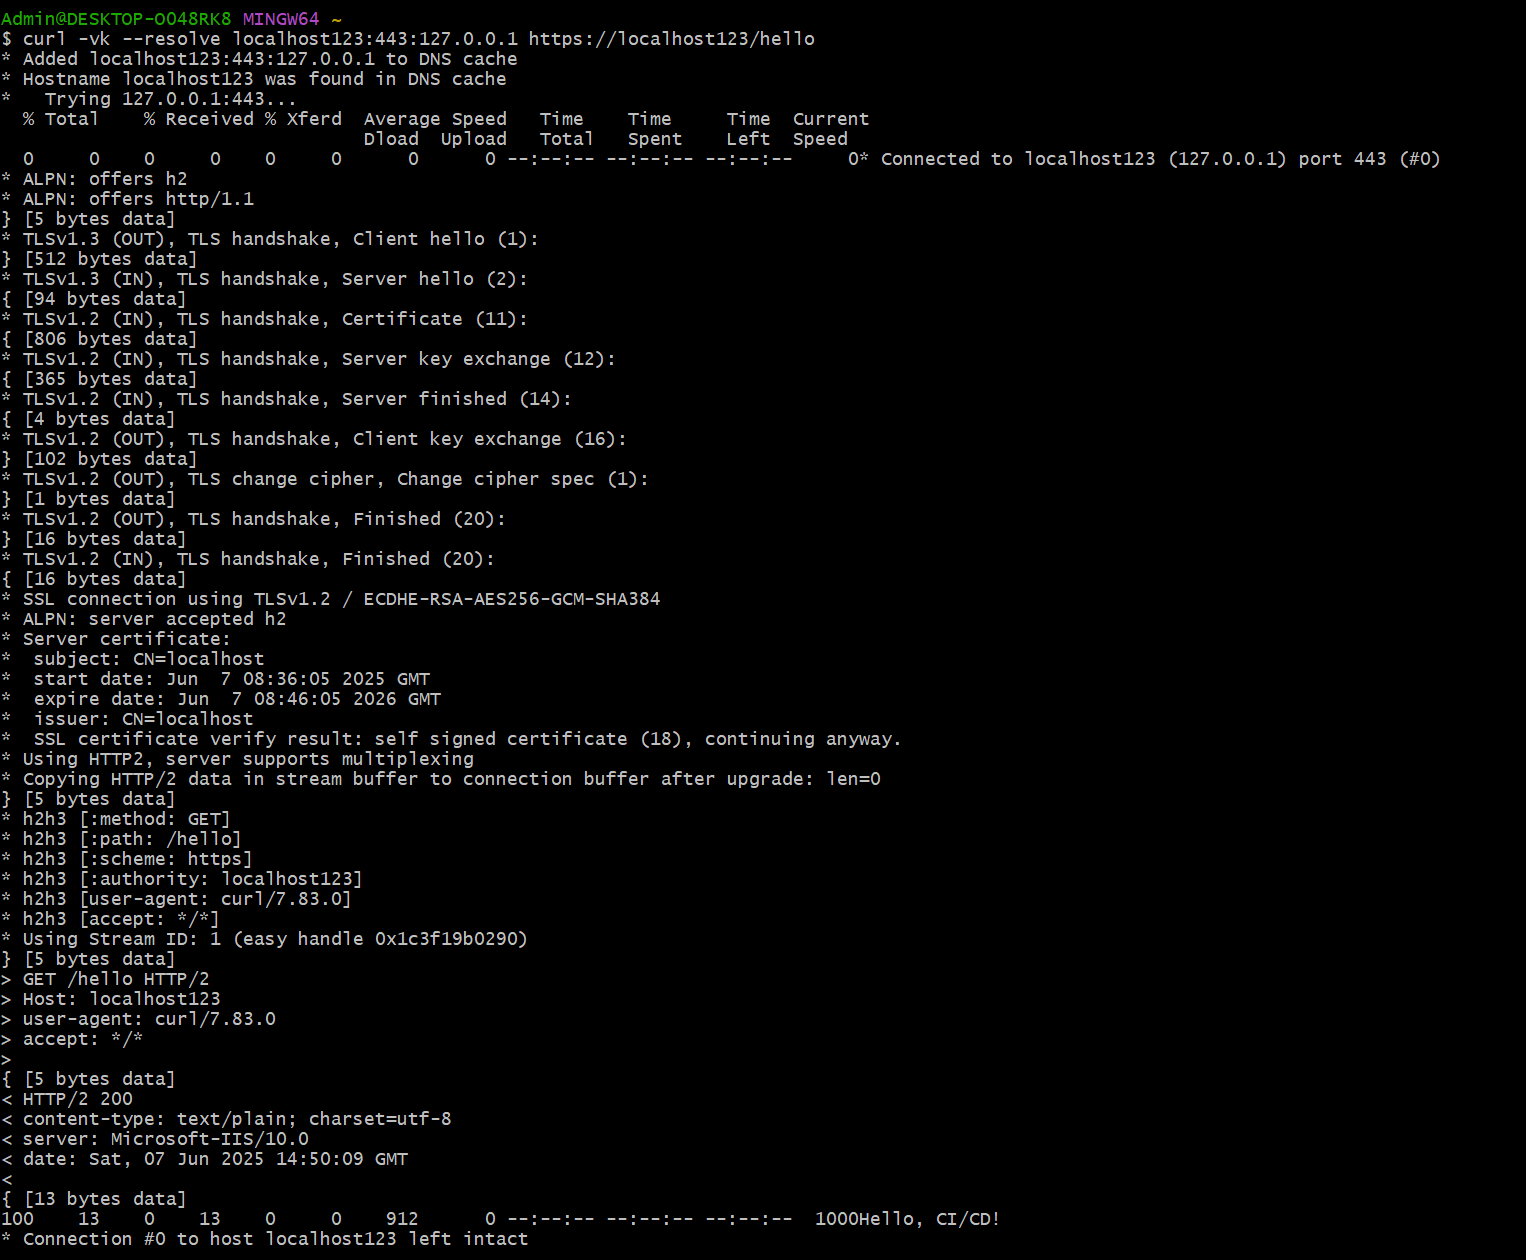
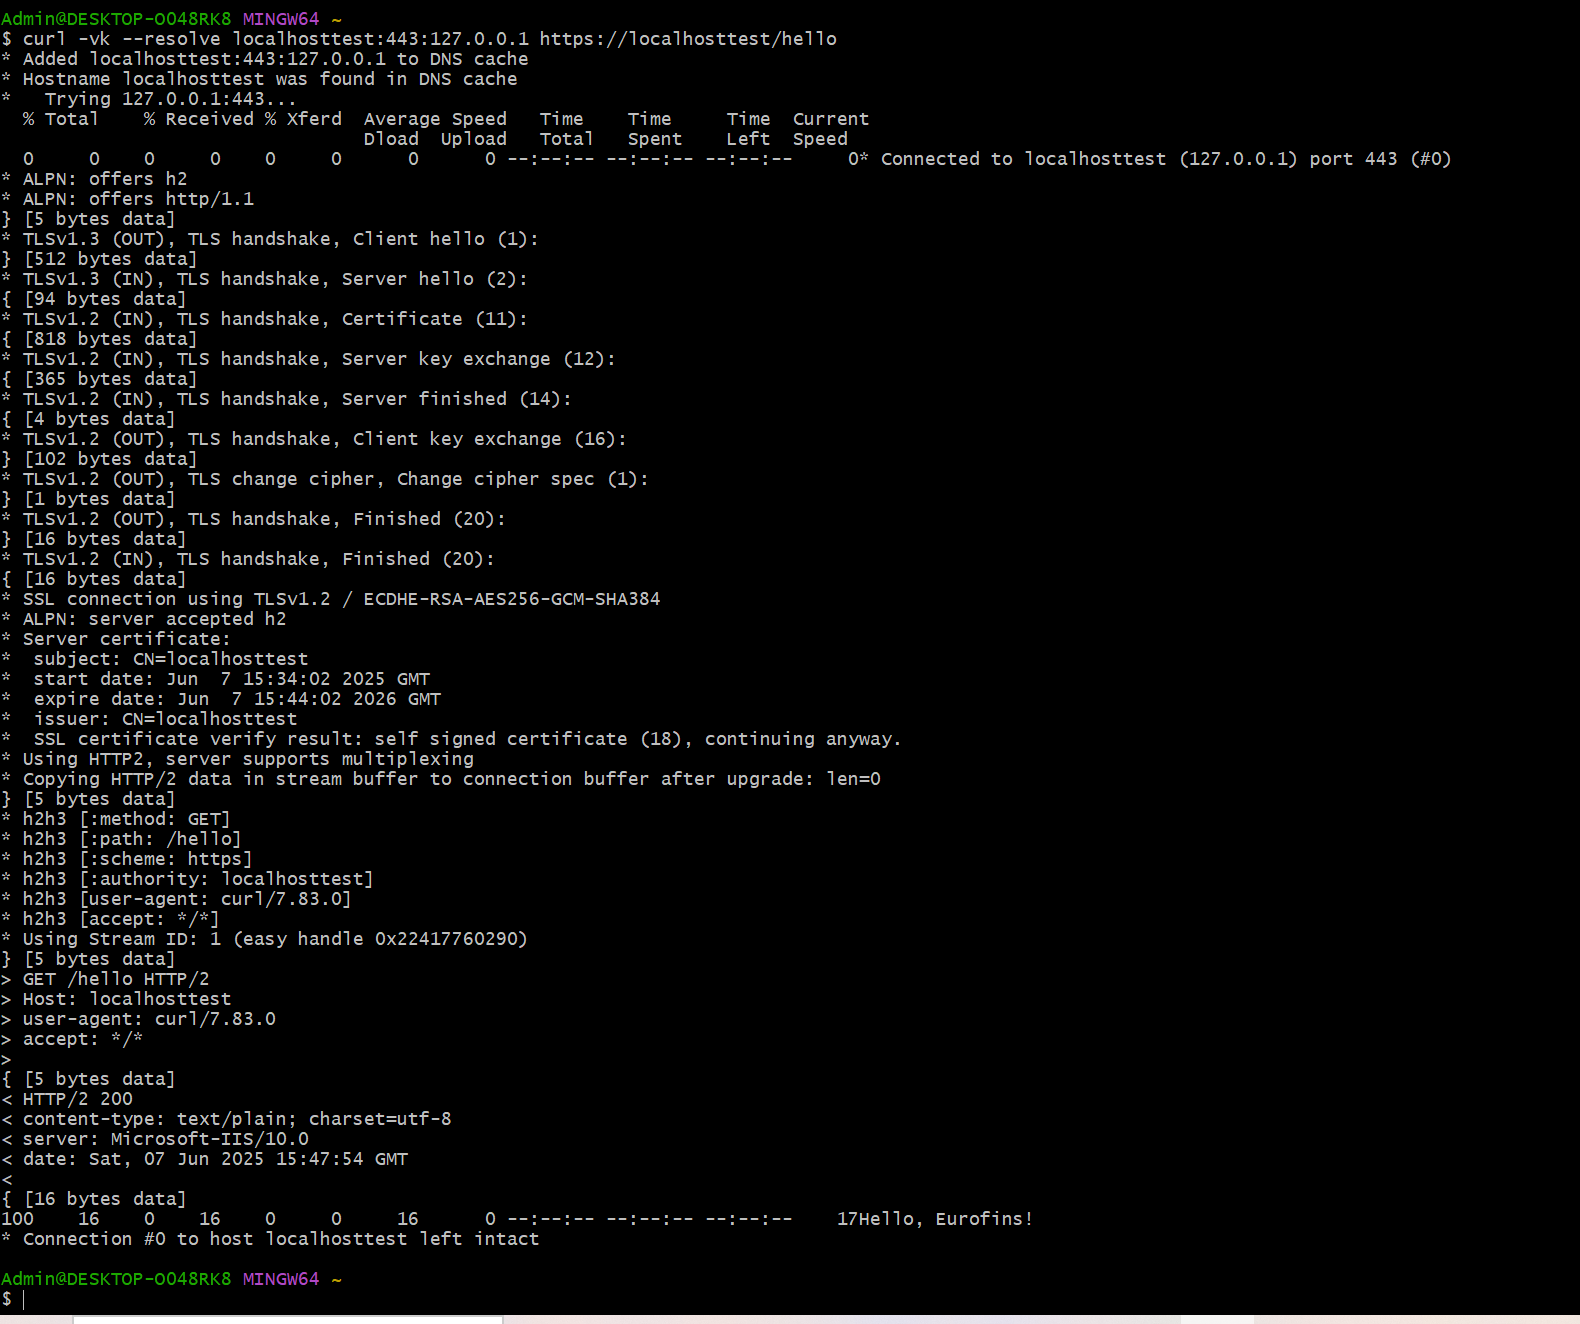
update - update deploy_website.ps1 script

Changed region(s): [[0.0, 0.0, 1.0, 1.0], [0.5236, 0.8976, 0.6468, 0.9286]]

diff --git a/README.MD b/README.MD
@@ -1,5 +1,5 @@
 # Introduction
-This is Eurofins Devops engineer assigment. The main purpose is to automate a build and deployement process of a simple helloword API application using Githubations and Powershell scripting language.
+This is Eurofins Devops engineer assignment. The main purpose is to automate a build and deployement process of a simple helloword API application using GithubActions and Powershell scripting language.
 # Project structure
 ```
     |--
@@ -23,16 +23,11 @@ This is Eurofins Devops engineer assigment. The main purpose is to automate a bu
 - Create the application under the website and associate it with the application pool.
 
 ## Example of running
-1. Generate a self signed certificate for https binding.
     ```
-        $cert = New-SelfSignedCertificate -DnsName "localhost123" -CertStoreLocation ".\assets\" -FriendlyName "My Localhost Dev Cert" -NotAfter (Get-Date).AddYears(1)
-        $pwd = ConvertTo-SecureString -String "<your_pass>" -AsPlainText -Force
-        Export-PfxCertificate -Cert $cert -FilePath "C:\Learning\Eurofins-assignment\assets\localhost123.pfx" -Password $pwd # Export pfx file to /asset folder(just to centralize all resource and asset in this assignment into 1 repo. We should not store any certificate into repository in the real project)
+        .\deploy-website.ps1 -Password "eurofins" -PfxPassword "eurofins" -BindingHost "localhosttest"
     ```
-2. Run the script to generate website with sub-application inside.
-    ```
-        .\deploy-website.ps1 -Password "eurofins" -PfxPassword "eurofins" -BindingHost "localhost123"
-    ```
-    ![alt text](./assets/image.png)
-    ![alt text](./assets/image_2.png)
-    ![alt text](./assets/image_3.png)
+
+
+![alt text](./assets/image.png)
+![alt text](./assets/image_2.png)
+![alt text](./assets/image_3.png)
